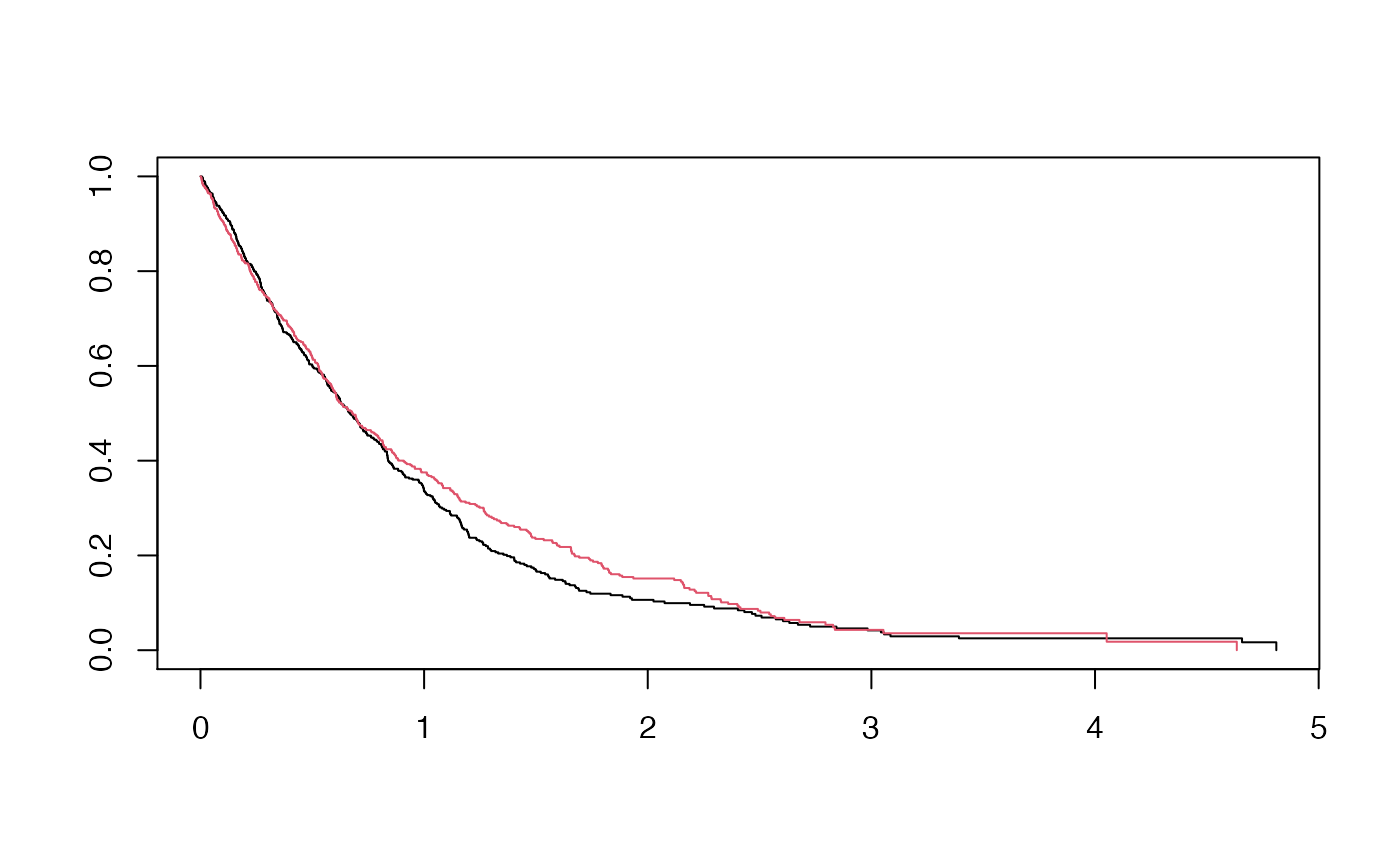
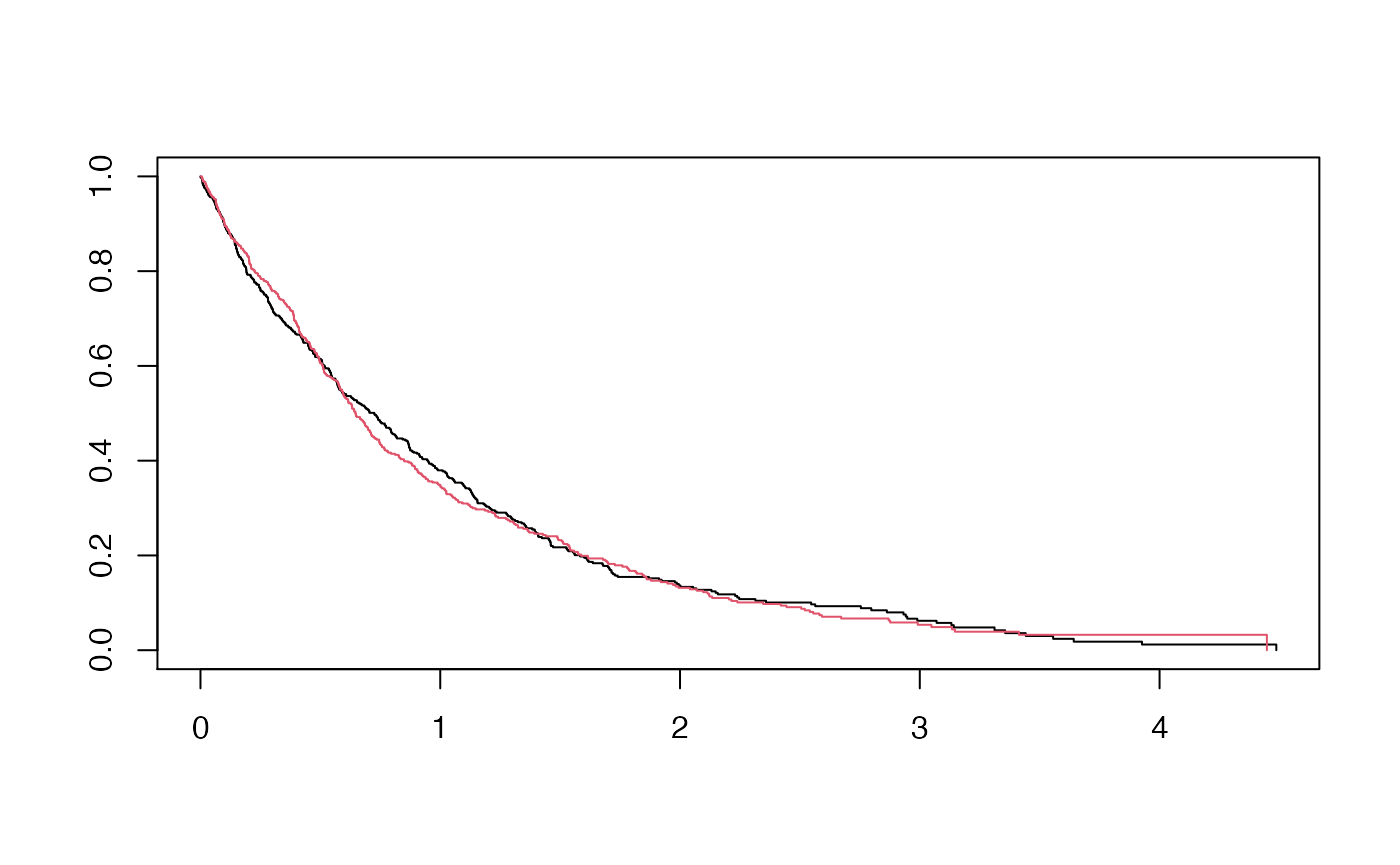
Built site for smim: 0.0.0.9000@a61b8ca

Changed region(s): [[0.2457, 0.4682, 0.9214, 0.7491], [0.1536, 0.2497, 0.2457, 0.4682], [0.4607, 0.8116, 0.4914, 0.8428]]

diff --git a/articles/mar.html b/articles/mar.html
@@ -128,14 +128,14 @@
 <span class="co">#&gt;       pattern</span>
 <span class="co">#&gt; status   1   2   3</span>
 <span class="co">#&gt;      0   0   0 113</span>
-<span class="co">#&gt;      1 448   0   0</span>
+<span class="co">#&gt;      1 450   0   0</span>
 <span class="co">#&gt; </span>
 <span class="co">#&gt; , ,  = TRUE</span>
 <span class="co">#&gt; </span>
 <span class="co">#&gt;       pattern</span>
 <span class="co">#&gt; status   1   2   3</span>
-<span class="co">#&gt;      0   0  60   0</span>
-<span class="co">#&gt;      1 379   0   0</span></code></pre></div>
+<span class="co">#&gt;      0   0  59   0</span>
+<span class="co">#&gt;      1 378   0   0</span></code></pre></div>
 </div>
 <div id="mar-analysis" class="section level1">
 <h1 class="hasAnchor">
@@ -152,21 +152,21 @@
 <span class="co">#&gt; </span>
 <span class="co">#&gt; Restricted Mean Survival Time (RMST) by arm </span>
 <span class="co">#&gt;               Est.    se lower .95 upper .95</span>
-<span class="co">#&gt; RMST (arm=1) 0.965 0.041     0.886     1.045</span>
-<span class="co">#&gt; RMST (arm=0) 0.884 0.037     0.812     0.957</span>
+<span class="co">#&gt; RMST (arm=1) 0.942 0.040     0.864     1.021</span>
+<span class="co">#&gt; RMST (arm=0) 0.964 0.041     0.883     1.045</span>
 <span class="co">#&gt; </span>
 <span class="co">#&gt; </span>
 <span class="co">#&gt; Restricted Mean Time Lost (RMTL) by arm </span>
 <span class="co">#&gt;               Est.    se lower .95 upper .95</span>
-<span class="co">#&gt; RMTL (arm=1) 2.035 0.041     1.955     2.114</span>
-<span class="co">#&gt; RMTL (arm=0) 2.116 0.037     2.043     2.188</span>
+<span class="co">#&gt; RMTL (arm=1) 2.058 0.040     1.979     2.136</span>
+<span class="co">#&gt; RMTL (arm=0) 2.036 0.041     1.955     2.117</span>
 <span class="co">#&gt; </span>
 <span class="co">#&gt; </span>
 <span class="co">#&gt; Between-group contrast </span>
-<span class="co">#&gt;                       Est. lower .95 upper .95     p</span>
-<span class="co">#&gt; RMST (arm=1)-(arm=0) 0.081    -0.027     0.189 0.141</span>
-<span class="co">#&gt; RMST (arm=1)/(arm=0) 1.091     0.972     1.226 0.140</span>
-<span class="co">#&gt; RMTL (arm=1)/(arm=0) 0.962     0.913     1.013 0.142</span></code></pre></div>
+<span class="co">#&gt;                        Est. lower .95 upper .95     p</span>
+<span class="co">#&gt; RMST (arm=1)-(arm=0) -0.022    -0.134     0.091 0.707</span>
+<span class="co">#&gt; RMST (arm=1)/(arm=0)  0.978     0.869     1.100 0.707</span>
+<span class="co">#&gt; RMTL (arm=1)/(arm=0)  1.011     0.957     1.068 0.707</span></code></pre></div>
 </div>
 <div id="rmst-within-group" class="section level2">
 <h2 class="hasAnchor">
@@ -176,8 +176,8 @@
 <span class="va">tmp</span> <span class="op">&lt;-</span> <span class="fu"><a href="../reference/rmst_delta.html">rmst_delta</a></span><span class="op">(</span><span class="va">time</span>, <span class="va">status</span>, x <span class="op">=</span> <span class="fu"><a href="https://rdrr.io/r/base/rep.html">rep</a></span><span class="op">(</span><span class="fl">1</span>, <span class="fu"><a href="https://rdrr.io/r/base/length.html">length</a></span><span class="op">(</span><span class="va">time</span><span class="op">)</span><span class="op">)</span>, <span class="va">group</span>, <span class="va">pattern</span>, <span class="va">delta</span>, <span class="va">tau</span>, n_mi <span class="op">=</span> <span class="fl">5</span>, n_b <span class="op">=</span> <span class="fl">100</span>, seed <span class="op">=</span> <span class="fl">123</span><span class="op">)</span>
 <span class="va">tmp</span><span class="op">$</span><span class="va">rmst</span>
 <span class="co">#&gt;      group      rmst         sd      wb_sd</span>
-<span class="co">#&gt; [1,]     0 0.8799450 0.03472752 0.03127620</span>
-<span class="co">#&gt; [2,]     1 0.9646246 0.04128444 0.03210283</span></code></pre></div>
+<span class="co">#&gt; [1,]     0 0.9524942 0.03968096 0.03423892</span>
+<span class="co">#&gt; [2,]     1 0.9356049 0.03930751 0.03752790</span></code></pre></div>
 </div>
 <div id="rmst-between-group" class="section level2">
 <h2 class="hasAnchor">
@@ -192,9 +192,9 @@
 
 <span class="fu"><a href="https://rdrr.io/r/base/cbind.html">rbind</a></span><span class="op">(</span> <span class="fu"><a href="../reference/diff_rmst.html">diff_rmst</a></span><span class="op">(</span><span class="va">tmp</span><span class="op">$</span><span class="va">rmst</span><span class="op">[</span>,<span class="st">"rmst"</span><span class="op">]</span>, <span class="va">tmp</span><span class="op">$</span><span class="va">rmst</span><span class="op">[</span>, <span class="st">"sd"</span><span class="op">]</span><span class="op">)</span>, 
        <span class="fu"><a href="../reference/diff_rmst.html">diff_rmst</a></span><span class="op">(</span><span class="va">tmp</span><span class="op">$</span><span class="va">rmst</span><span class="op">[</span>,<span class="st">"rmst"</span><span class="op">]</span>, <span class="va">tmp</span><span class="op">$</span><span class="va">rmst</span><span class="op">[</span>, <span class="st">"wb_sd"</span><span class="op">]</span><span class="op">)</span><span class="op">)</span>
-<span class="co">#&gt;            diff         sd          p</span>
-<span class="co">#&gt; [1,] 0.08467961 0.05394817 0.11649718</span>
-<span class="co">#&gt; [2,] 0.08467961 0.04481955 0.05884558</span></code></pre></div>
+<span class="co">#&gt;             diff         sd         p</span>
+<span class="co">#&gt; [1,] -0.01688926 0.05585390 0.7623602</span>
+<span class="co">#&gt; [2,] -0.01688926 0.05080007 0.7395379</span></code></pre></div>
 </div>
 </div>
   </div>

diff --git a/articles/actg175.html b/articles/actg175.html
@@ -224,20 +224,27 @@
   lower_wb <span class="op">=</span> <span class="va">diff_rmst</span> <span class="op">-</span> <span class="fl">1.96</span> <span class="op">*</span> <span class="va">diff_wb_sd</span>, 
   upper_wb <span class="op">=</span> <span class="va">diff_rmst</span> <span class="op">+</span> <span class="fl">1.96</span> <span class="op">*</span> <span class="va">diff_wb_sd</span>,
   p_val_wb <span class="op">=</span> <span class="fl">2</span><span class="op">*</span> <span class="op">(</span><span class="fl">1</span> <span class="op">-</span> <span class="fu"><a href="https://rdrr.io/r/stats/Normal.html">pnorm</a></span><span class="op">(</span> <span class="fu"><a href="https://rdrr.io/r/base/MathFun.html">abs</a></span><span class="op">(</span><span class="va">diff_rmst</span><span class="op">/</span><span class="va">diff_wb_sd</span><span class="op">)</span> <span class="op">)</span><span class="op">)</span>,
-<span class="op">)</span> <span class="op">%&gt;%</span> <span class="fu"><a href="https://dplyr.tidyverse.org/reference/mutate_all.html">mutate_if</a></span><span class="op">(</span><span class="va">is.numeric</span>, <span class="va">formatC</span>, digits <span class="op">=</span> <span class="fl">3</span>, format <span class="op">=</span> <span class="st">"f"</span><span class="op">)</span>
-<span class="co">#&gt; # A tibble: 9 x 10</span>
-<span class="co">#&gt;   delta diff_rmst diff_sd diff_wb_sd lower upper p_val lower_wb upper_wb</span>
-<span class="co">#&gt; * &lt;chr&gt; &lt;chr&gt;     &lt;chr&gt;   &lt;chr&gt;      &lt;chr&gt; &lt;chr&gt; &lt;chr&gt; &lt;chr&gt;    &lt;chr&gt;   </span>
-<span class="co">#&gt; 1 1     0.915     0.394   0.389      0.143 1.686 0.020 0.151    1.678   </span>
-<span class="co">#&gt; 2 1.5   0.896     0.395   0.390      0.122 1.671 0.023 0.133    1.660   </span>
-<span class="co">#&gt; 3 2     0.877     0.397   0.390      0.100 1.655 0.027 0.113    1.642   </span>
-<span class="co">#&gt; 4 2.5   0.859     0.398   0.390      0.078 1.639 0.031 0.094    1.624   </span>
-<span class="co">#&gt; 5 3     0.843     0.399   0.391      0.062 1.625 0.034 0.078    1.609   </span>
-<span class="co">#&gt; 6 3.5   0.826     0.400   0.391      0.042 1.610 0.039 0.060    1.592   </span>
-<span class="co">#&gt; 7 4     0.810     0.401   0.391      0.024 1.596 0.043 0.043    1.577   </span>
-<span class="co">#&gt; 8 4.5   0.794     0.402   0.392      0.006 1.582 0.048 0.026    1.562   </span>
-<span class="co">#&gt; 9 5     0.778     0.403   0.392      -0.0… 1.568 0.054 0.009    1.547   </span>
-<span class="co">#&gt; # … with 1 more variable: p_val_wb &lt;chr&gt;</span></code></pre></div>
+<span class="op">)</span> <span class="op">%&gt;%</span> <span class="fu"><a href="https://dplyr.tidyverse.org/reference/mutate_all.html">mutate_if</a></span><span class="op">(</span><span class="va">is.numeric</span>, <span class="va">formatC</span>, digits <span class="op">=</span> <span class="fl">3</span>, format <span class="op">=</span> <span class="st">"f"</span><span class="op">)</span> <span class="op">%&gt;%</span> <span class="fu"><a href="https://rdrr.io/r/base/data.frame.html">data.frame</a></span><span class="op">(</span><span class="op">)</span>
+<span class="co">#&gt;   delta diff_rmst diff_sd diff_wb_sd  lower upper p_val lower_wb upper_wb</span>
+<span class="co">#&gt; 1     1     0.915   0.394      0.389  0.143 1.686 0.020    0.151    1.678</span>
+<span class="co">#&gt; 2   1.5     0.896   0.395      0.390  0.122 1.671 0.023    0.133    1.660</span>
+<span class="co">#&gt; 3     2     0.877   0.397      0.390  0.100 1.655 0.027    0.113    1.642</span>
+<span class="co">#&gt; 4   2.5     0.859   0.398      0.390  0.078 1.639 0.031    0.094    1.624</span>
+<span class="co">#&gt; 5     3     0.843   0.399      0.391  0.062 1.625 0.034    0.078    1.609</span>
+<span class="co">#&gt; 6   3.5     0.826   0.400      0.391  0.042 1.610 0.039    0.060    1.592</span>
+<span class="co">#&gt; 7     4     0.810   0.401      0.391  0.024 1.596 0.043    0.043    1.577</span>
+<span class="co">#&gt; 8   4.5     0.794   0.402      0.392  0.006 1.582 0.048    0.026    1.562</span>
+<span class="co">#&gt; 9     5     0.778   0.403      0.392 -0.012 1.568 0.054    0.009    1.547</span>
+<span class="co">#&gt;   p_val_wb</span>
+<span class="co">#&gt; 1    0.019</span>
+<span class="co">#&gt; 2    0.021</span>
+<span class="co">#&gt; 3    0.024</span>
+<span class="co">#&gt; 4    0.028</span>
+<span class="co">#&gt; 5    0.031</span>
+<span class="co">#&gt; 6    0.035</span>
+<span class="co">#&gt; 7    0.038</span>
+<span class="co">#&gt; 8    0.043</span>
+<span class="co">#&gt; 9    0.047</span></code></pre></div>
 </div>
 </div>
 <div id="control-based-imputation" class="section level1">
